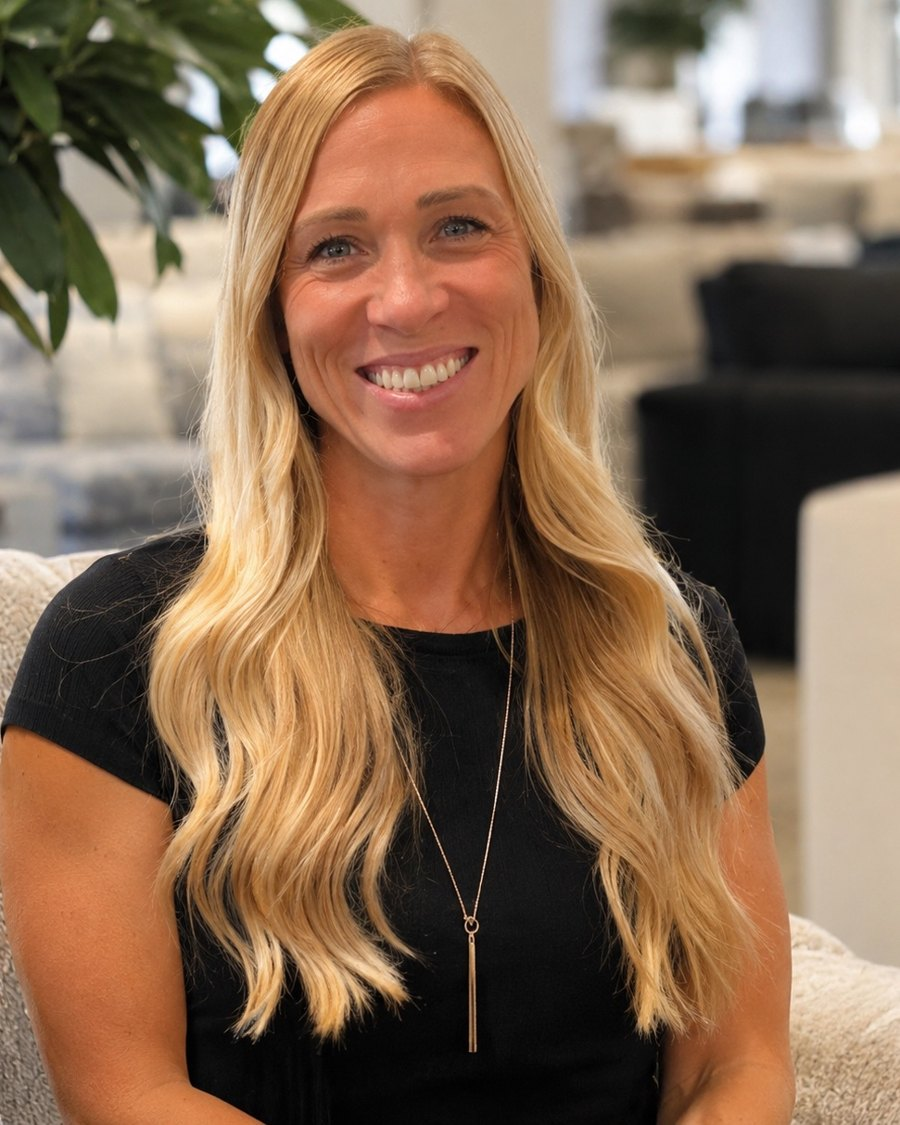
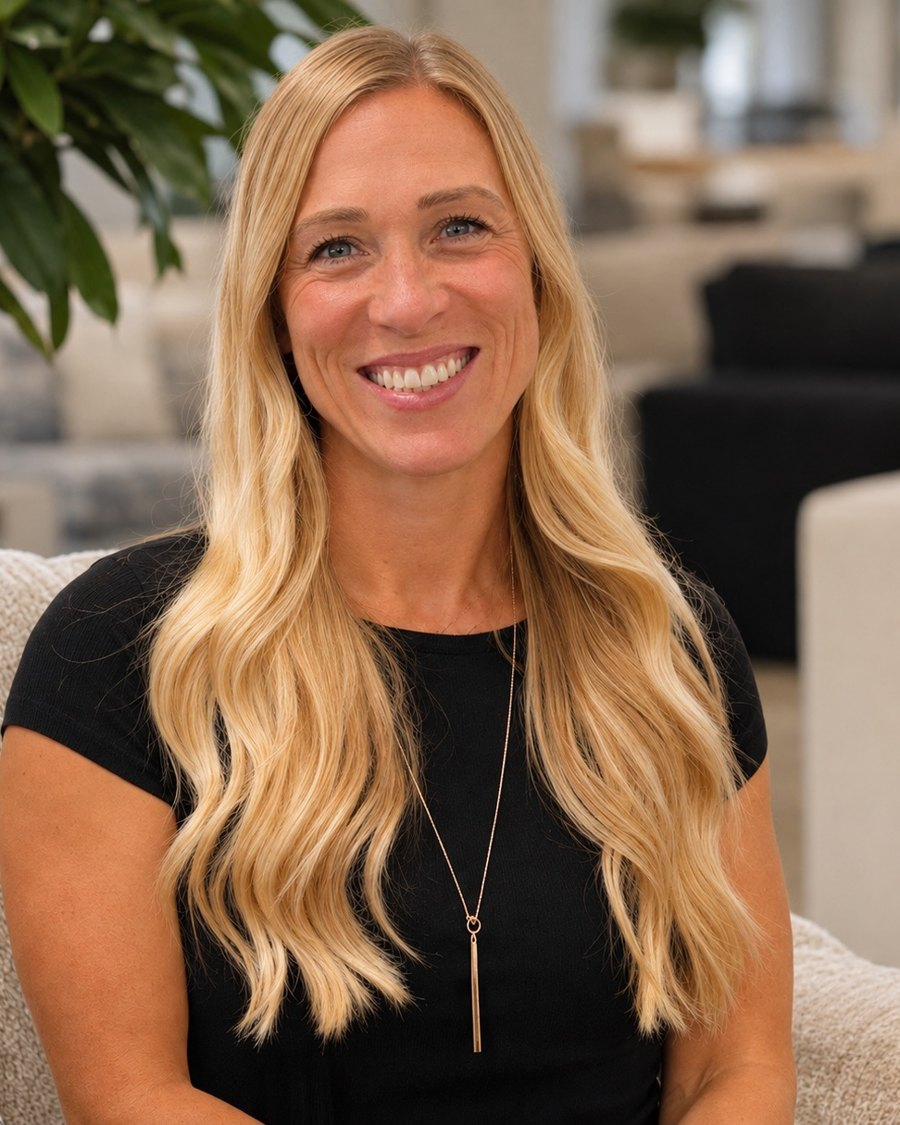
Renew preview v63: Petit Formal Script eyebrows, Jenny's updated headshot

diff --git a/renew-preview/styles.css b/renew-preview/styles.css
@@ -18,7 +18,7 @@
   /* type */
   --sans: "Instrument Sans", "Helvetica Neue", Helvetica, Arial, sans-serif;
   --mono: "DM Mono", ui-monospace, "SF Mono", Menlo, monospace;
-  --script: "Caveat", "Bradley Hand", cursive;
+  --script: "Petit Formal Script", "Snell Roundhand", cursive;  /* Nov 13: team picked option I */
 
   --t-display: clamp(2.75rem, 7.4vw, 6.75rem);
   --t-h2: clamp(1.75rem, 3.3vw, 3rem);
@@ -626,9 +626,9 @@ h1, h2, h3, h4 { margin: 0; font-weight: 500; text-wrap: balance; }
 /* ---------- script eyebrows (Nov 6): section eyebrows in Caveat, open, no pill; functional tags stay mono ---------- */
 .tag:not(.tag--tbd):not(.tag--sage):not(.tag--before):not(.tag--after) {
   font-family: var(--script);
-  font-weight: 600;
-  font-size: clamp(28px, 2.6vw, 34px);
-  line-height: 1;
+  font-weight: 400;
+  font-size: clamp(24px, 2.1vw, 30px);
+  line-height: 1.15;
   text-transform: none;
   letter-spacing: 0;
   border: 0;

diff --git a/renew-preview/about.html b/renew-preview/about.html
@@ -4,7 +4,7 @@
 <meta name="viewport" content="width=device-width, initial-scale=1, viewport-fit=cover">
 <title>Home Staging &amp; Interior Design, Raleigh-Durham · Renew Staging &amp; Design</title>
 <link rel="preconnect" href="https://fonts.googleapis.com">
-<link rel="stylesheet" href="https://fonts.googleapis.com/css2?family=Caveat:wght@600&family=DM+Mono:wght@400;500&family=Instrument+Sans:wght@400;500;600&display=swap">
+<link rel="stylesheet" href="https://fonts.googleapis.com/css2?family=Petit+Formal+Script&family=DM+Mono:wght@400;500&family=Instrument+Sans:wght@400;500;600&display=swap">
 <link rel="stylesheet" href="styles.css">
 
 <header class="site-header">

diff --git a/renew-preview/builders.html b/renew-preview/builders.html
@@ -4,7 +4,7 @@
 <meta name="viewport" content="width=device-width, initial-scale=1, viewport-fit=cover">
 <title>Home Staging &amp; Interior Design, Raleigh-Durham · Renew Staging &amp; Design</title>
 <link rel="preconnect" href="https://fonts.googleapis.com">
-<link rel="stylesheet" href="https://fonts.googleapis.com/css2?family=Caveat:wght@600&family=DM+Mono:wght@400;500&family=Instrument+Sans:wght@400;500;600&display=swap">
+<link rel="stylesheet" href="https://fonts.googleapis.com/css2?family=Petit+Formal+Script&family=DM+Mono:wght@400;500&family=Instrument+Sans:wght@400;500;600&display=swap">
 <link rel="stylesheet" href="styles.css">
 
 <header class="site-header">

diff --git a/renew-preview/case-study-exeter-legacy-ridge.html b/renew-preview/case-study-exeter-legacy-ridge.html
@@ -4,7 +4,7 @@
 <meta name="viewport" content="width=device-width, initial-scale=1, viewport-fit=cover">
 <title>Home Staging &amp; Interior Design, Raleigh-Durham · Renew Staging &amp; Design</title>
 <link rel="preconnect" href="https://fonts.googleapis.com">
-<link rel="stylesheet" href="https://fonts.googleapis.com/css2?family=Caveat:wght@600&family=DM+Mono:wght@400;500&family=Instrument+Sans:wght@400;500;600&display=swap">
+<link rel="stylesheet" href="https://fonts.googleapis.com/css2?family=Petit+Formal+Script&family=DM+Mono:wght@400;500&family=Instrument+Sans:wght@400;500;600&display=swap">
 <link rel="stylesheet" href="styles.css">
 
 <header class="site-header">

diff --git a/renew-preview/case-study-garman-homes.html b/renew-preview/case-study-garman-homes.html
@@ -4,7 +4,7 @@
 <meta name="viewport" content="width=device-width, initial-scale=1, viewport-fit=cover">
 <title>Home Staging &amp; Interior Design, Raleigh-Durham · Renew Staging &amp; Design</title>
 <link rel="preconnect" href="https://fonts.googleapis.com">
-<link rel="stylesheet" href="https://fonts.googleapis.com/css2?family=Caveat:wght@600&family=DM+Mono:wght@400;500&family=Instrument+Sans:wght@400;500;600&display=swap">
+<link rel="stylesheet" href="https://fonts.googleapis.com/css2?family=Petit+Formal+Script&family=DM+Mono:wght@400;500&family=Instrument+Sans:wght@400;500;600&display=swap">
 <link rel="stylesheet" href="styles.css">
 
 <header class="site-header">

diff --git a/renew-preview/case-study-midtown.html b/renew-preview/case-study-midtown.html
@@ -4,7 +4,7 @@
 <meta name="viewport" content="width=device-width, initial-scale=1, viewport-fit=cover">
 <title>Home Staging &amp; Interior Design, Raleigh-Durham · Renew Staging &amp; Design</title>
 <link rel="preconnect" href="https://fonts.googleapis.com">
-<link rel="stylesheet" href="https://fonts.googleapis.com/css2?family=Caveat:wght@600&family=DM+Mono:wght@400;500&family=Instrument+Sans:wght@400;500;600&display=swap">
+<link rel="stylesheet" href="https://fonts.googleapis.com/css2?family=Petit+Formal+Script&family=DM+Mono:wght@400;500&family=Instrument+Sans:wght@400;500;600&display=swap">
 <link rel="stylesheet" href="styles.css">
 
 <header class="site-header">

diff --git a/renew-preview/case-study-new-home-inc.html b/renew-preview/case-study-new-home-inc.html
@@ -4,7 +4,7 @@
 <meta name="viewport" content="width=device-width, initial-scale=1, viewport-fit=cover">
 <title>Home Staging &amp; Interior Design, Raleigh-Durham · Renew Staging &amp; Design</title>
 <link rel="preconnect" href="https://fonts.googleapis.com">
-<link rel="stylesheet" href="https://fonts.googleapis.com/css2?family=Caveat:wght@600&family=DM+Mono:wght@400;500&family=Instrument+Sans:wght@400;500;600&display=swap">
+<link rel="stylesheet" href="https://fonts.googleapis.com/css2?family=Petit+Formal+Script&family=DM+Mono:wght@400;500&family=Instrument+Sans:wght@400;500;600&display=swap">
 <link rel="stylesheet" href="styles.css">
 
 <header class="site-header">

diff --git a/renew-preview/case-study-prewitt-douglas.html b/renew-preview/case-study-prewitt-douglas.html
@@ -4,7 +4,7 @@
 <meta name="viewport" content="width=device-width, initial-scale=1, viewport-fit=cover">
 <title>Home Staging &amp; Interior Design, Raleigh-Durham · Renew Staging &amp; Design</title>
 <link rel="preconnect" href="https://fonts.googleapis.com">
-<link rel="stylesheet" href="https://fonts.googleapis.com/css2?family=Caveat:wght@600&family=DM+Mono:wght@400;500&family=Instrument+Sans:wght@400;500;600&display=swap">
+<link rel="stylesheet" href="https://fonts.googleapis.com/css2?family=Petit+Formal+Script&family=DM+Mono:wght@400;500&family=Instrument+Sans:wght@400;500;600&display=swap">
 <link rel="stylesheet" href="styles.css">
 
 <header class="site-header">

diff --git a/renew-preview/case-study.html b/renew-preview/case-study.html
@@ -4,7 +4,7 @@
 <meta name="viewport" content="width=device-width, initial-scale=1, viewport-fit=cover">
 <title>Home Staging &amp; Interior Design, Raleigh-Durham · Renew Staging &amp; Design</title>
 <link rel="preconnect" href="https://fonts.googleapis.com">
-<link rel="stylesheet" href="https://fonts.googleapis.com/css2?family=Caveat:wght@600&family=DM+Mono:wght@400;500&family=Instrument+Sans:wght@400;500;600&display=swap">
+<link rel="stylesheet" href="https://fonts.googleapis.com/css2?family=Petit+Formal+Script&family=DM+Mono:wght@400;500&family=Instrument+Sans:wght@400;500;600&display=swap">
 <link rel="stylesheet" href="styles.css">
 
 <header class="site-header">

diff --git a/renew-preview/city-apex.html b/renew-preview/city-apex.html
@@ -4,7 +4,7 @@
 <meta name="viewport" content="width=device-width, initial-scale=1, viewport-fit=cover">
 <title>Home Staging &amp; Interior Design, Raleigh-Durham · Renew Staging &amp; Design</title>
 <link rel="preconnect" href="https://fonts.googleapis.com">
-<link rel="stylesheet" href="https://fonts.googleapis.com/css2?family=Caveat:wght@600&family=DM+Mono:wght@400;500&family=Instrument+Sans:wght@400;500;600&display=swap">
+<link rel="stylesheet" href="https://fonts.googleapis.com/css2?family=Petit+Formal+Script&family=DM+Mono:wght@400;500&family=Instrument+Sans:wght@400;500;600&display=swap">
 <link rel="stylesheet" href="styles.css">
 
 <header class="site-header">

diff --git a/renew-preview/city-cary.html b/renew-preview/city-cary.html
@@ -4,7 +4,7 @@
 <meta name="viewport" content="width=device-width, initial-scale=1, viewport-fit=cover">
 <title>Home Staging &amp; Interior Design, Raleigh-Durham · Renew Staging &amp; Design</title>
 <link rel="preconnect" href="https://fonts.googleapis.com">
-<link rel="stylesheet" href="https://fonts.googleapis.com/css2?family=Caveat:wght@600&family=DM+Mono:wght@400;500&family=Instrument+Sans:wght@400;500;600&display=swap">
+<link rel="stylesheet" href="https://fonts.googleapis.com/css2?family=Petit+Formal+Script&family=DM+Mono:wght@400;500&family=Instrument+Sans:wght@400;500;600&display=swap">
 <link rel="stylesheet" href="styles.css">
 
 <header class="site-header">

diff --git a/renew-preview/city-chapel-hill.html b/renew-preview/city-chapel-hill.html
@@ -4,7 +4,7 @@
 <meta name="viewport" content="width=device-width, initial-scale=1, viewport-fit=cover">
 <title>Home Staging &amp; Interior Design, Raleigh-Durham · Renew Staging &amp; Design</title>
 <link rel="preconnect" href="https://fonts.googleapis.com">
-<link rel="stylesheet" href="https://fonts.googleapis.com/css2?family=Caveat:wght@600&family=DM+Mono:wght@400;500&family=Instrument+Sans:wght@400;500;600&display=swap">
+<link rel="stylesheet" href="https://fonts.googleapis.com/css2?family=Petit+Formal+Script&family=DM+Mono:wght@400;500&family=Instrument+Sans:wght@400;500;600&display=swap">
 <link rel="stylesheet" href="styles.css">
 
 <header class="site-header">
